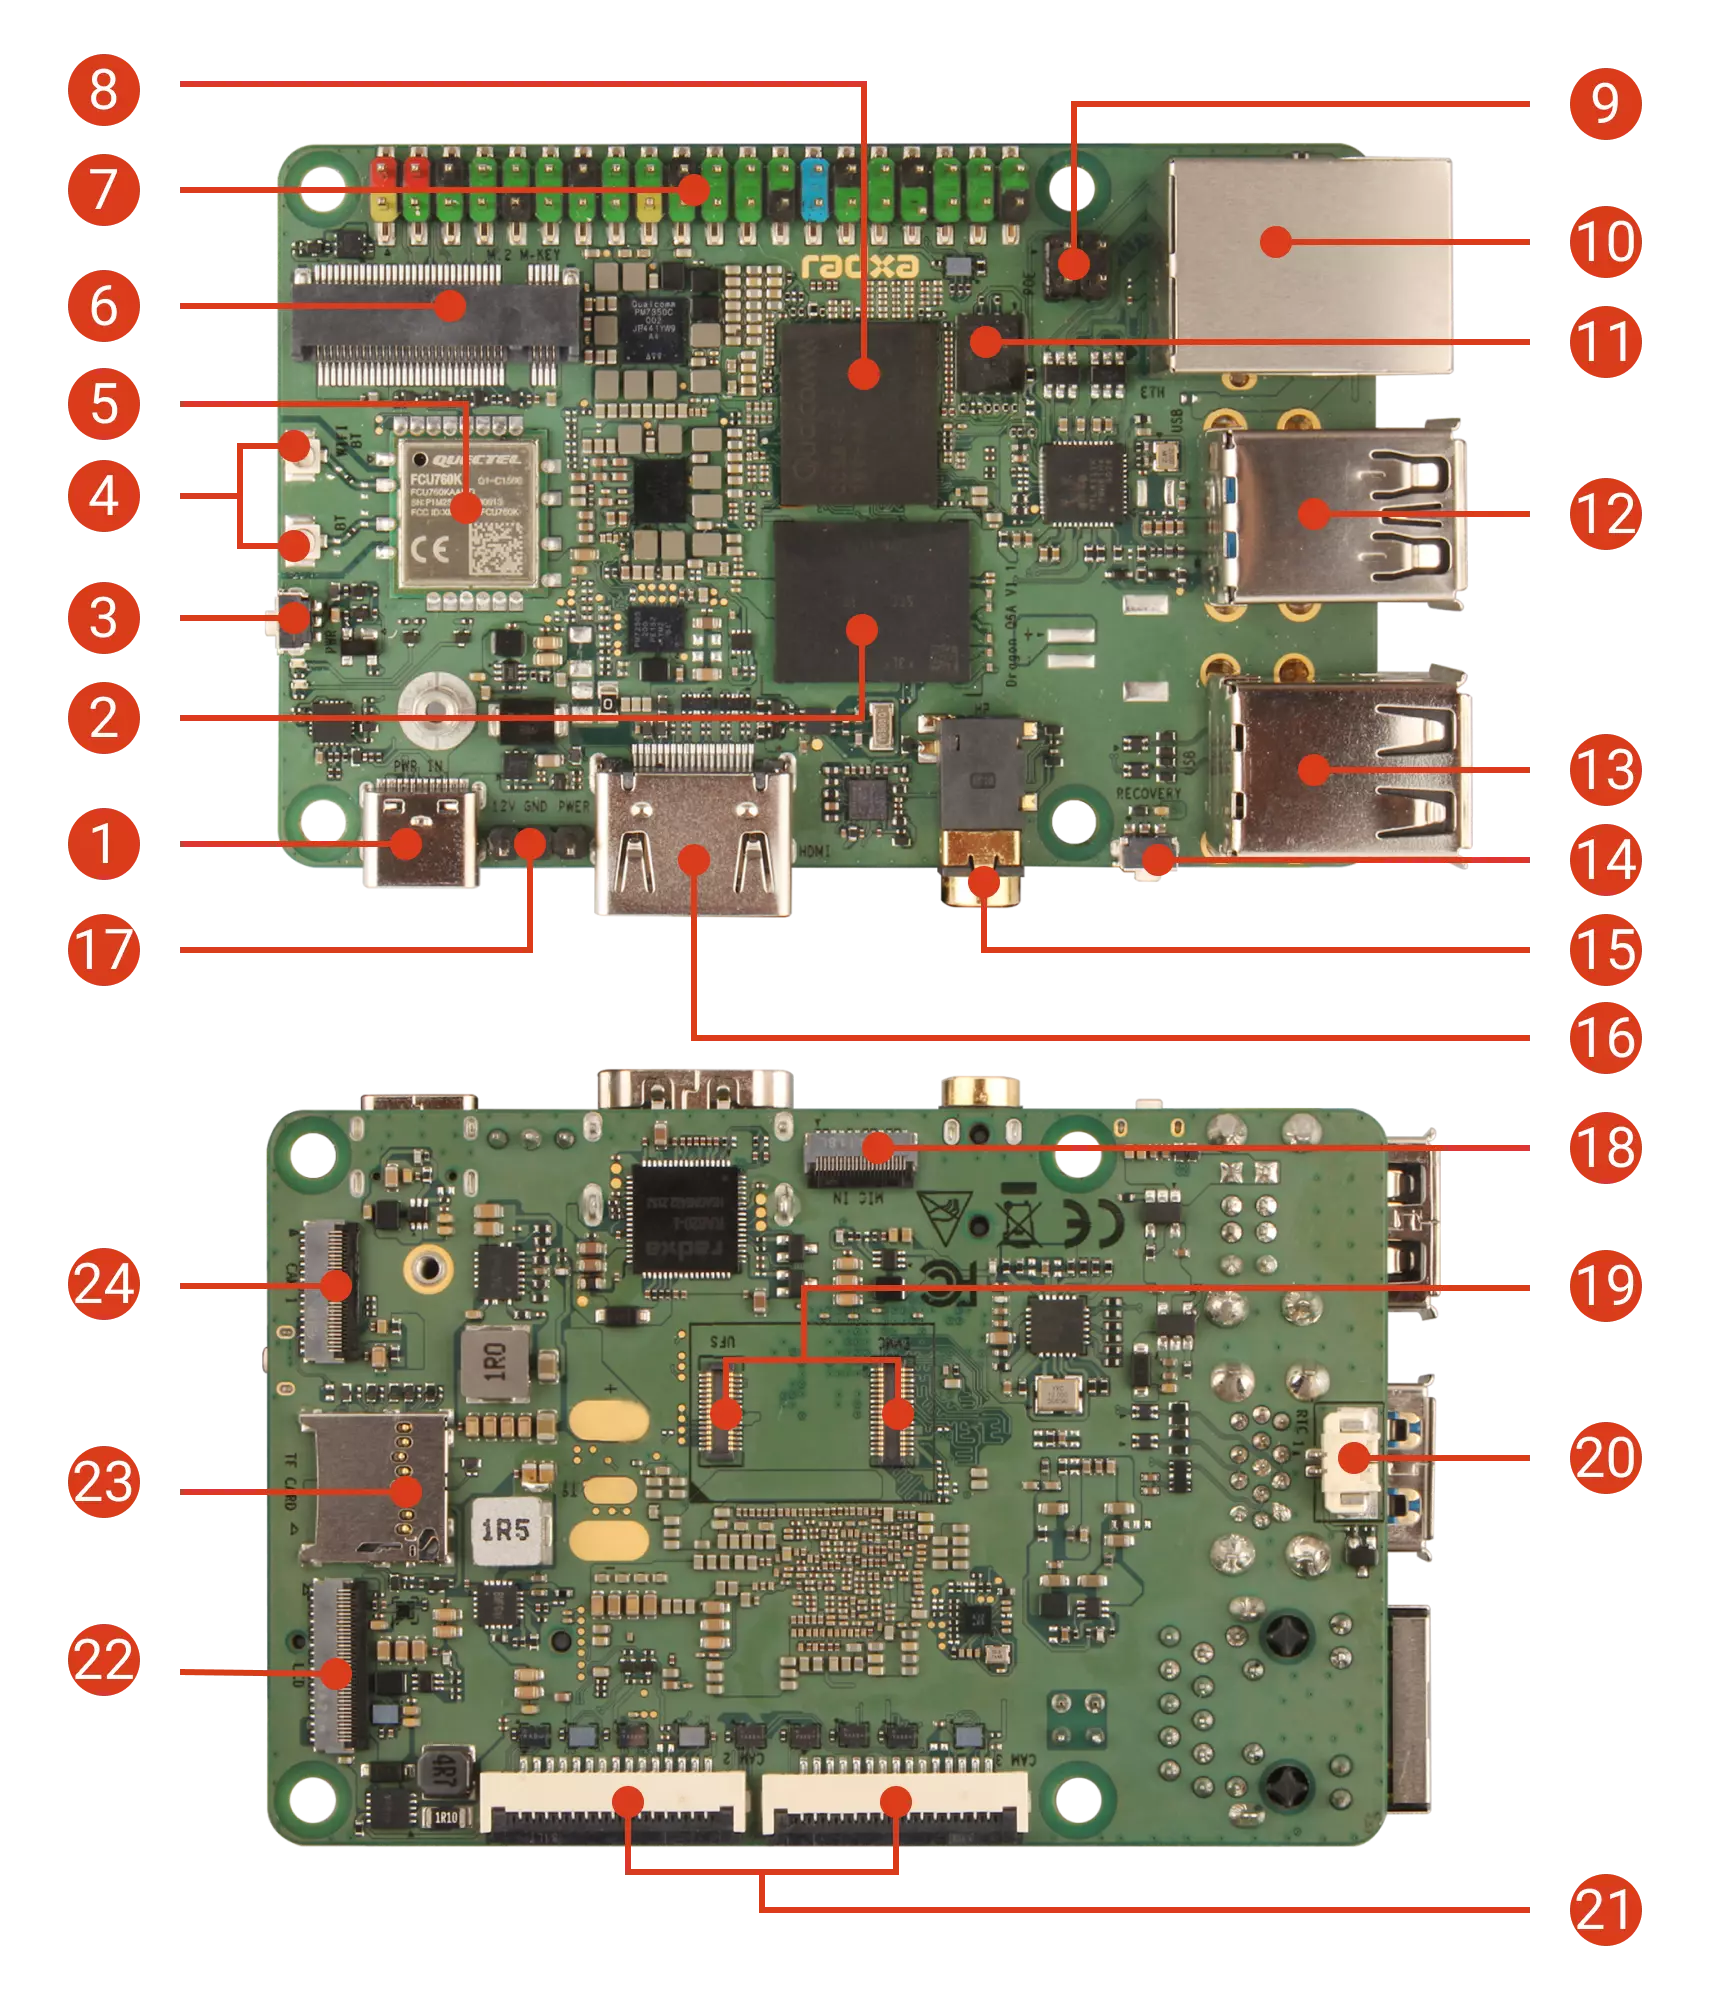
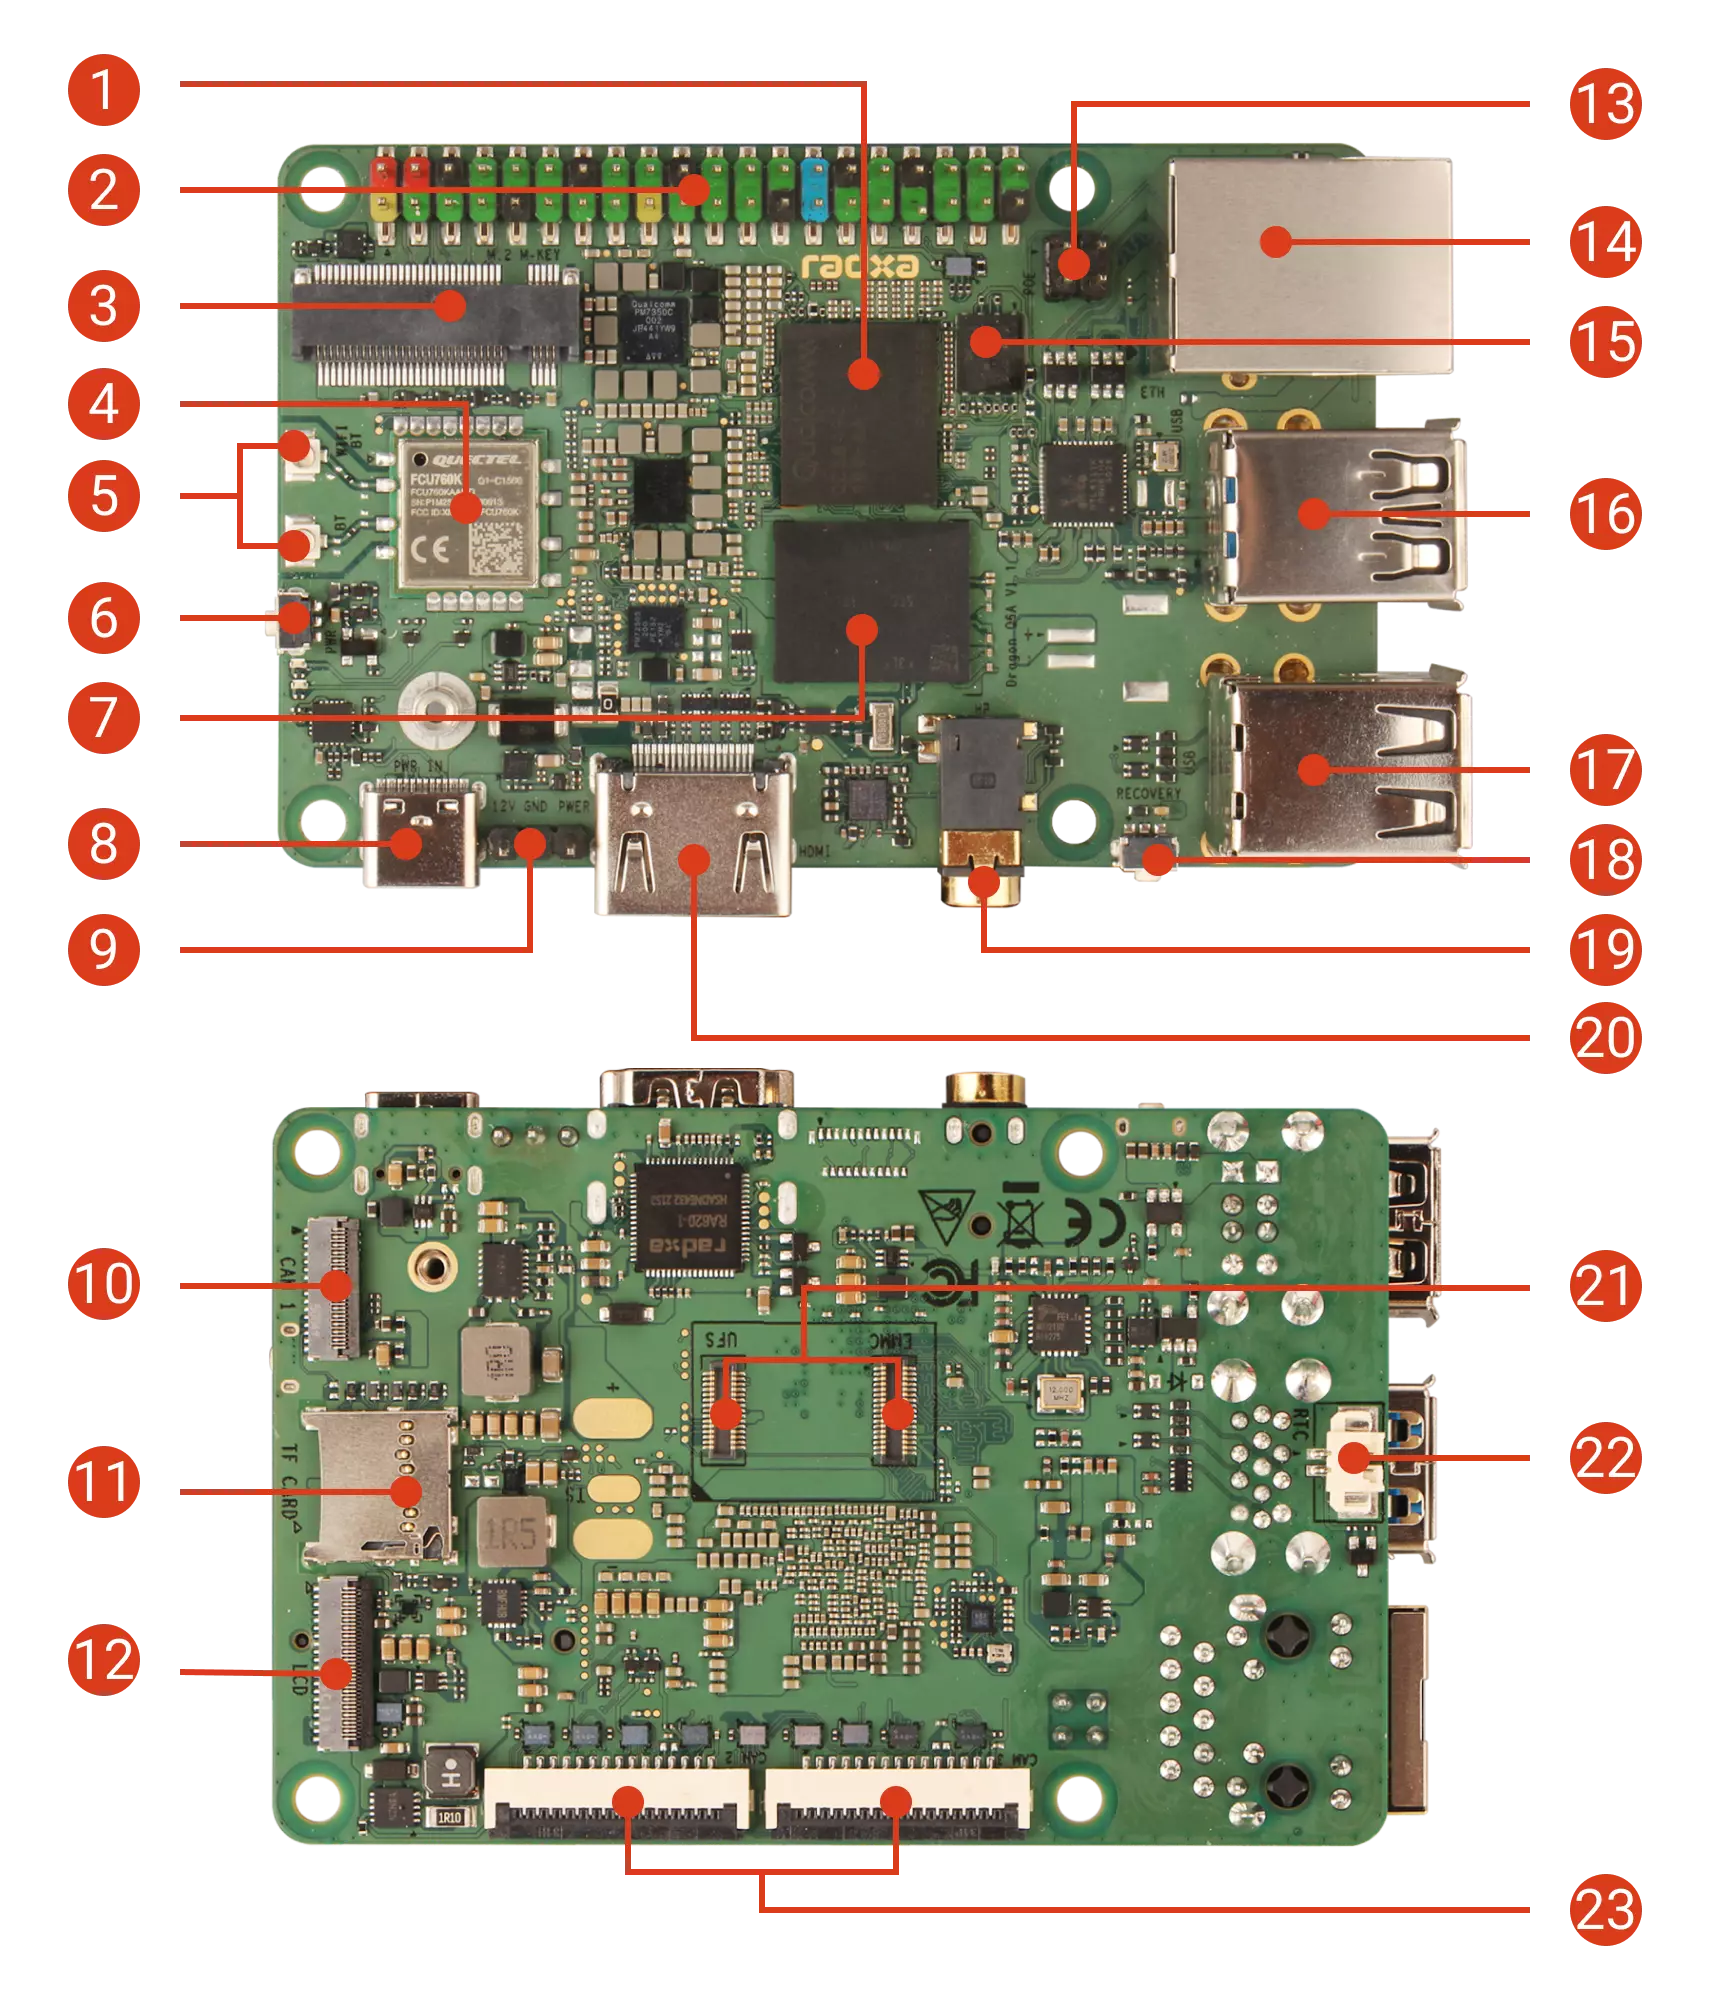
fix: dragon q6a interface description

diff --git a/docs/dragon/q6a/README.md b/docs/dragon/q6a/README.md
@@ -42,27 +42,16 @@ Dragon Q6A 搭载高通 QCS6490 SoC，采用 “1+3+4” 三丛集设计（1× K
    <img src="/img/dragon/q6a/q6a_interface.webp" style={{width: '100%', maxWidth: '1200px'}} />
 </div>
 
-| 序号 | 说明             | 序号 | 说明                                                         | 序号 | 说明                      |
-| :--: | :--------------- | :--: | :----------------------------------------------------------- | :--: | :------------------------ |
-|  ①   | USB Type-C 接口  |  ⑨   | PoE 接口                                                     |  ⑰   | 12 V 电源输入接口         |
-|  ②   | LPDDR5 内存      |  ⑩   | 千兆以太网接口（支持 PoE）                                   |  ⑱   | 麦克风输入接口            |
-|  ③   | Power 按键       |  ⑪   | QSPI Nor Flash                                               |  ⑲   | eMMC / UFS 模块二合一接口 |
-|  ④   | 天线接口         |  ⑫   | 2x USB 2.0 Type-A 接口                                       |  ⑳   | RTC 接口                  |
-|  ⑤   | WiFi 6 / BT 5.4  |  ⑬   | USB 2.0 Type-A 接口（上层）<br/> USB 3.1 Type-A 接口（下层） |  ㉑  | 2x MIPI CSI 2-Lane 接口   |
-|  ⑥   | M.2 M Key 接口   |  ⑭   | EDL 按键                                                     |  ㉒  | MIPI DSI 4-Lane 接口      |
-|  ⑦   | 40 Pin GPIO 排针 |  ⑮   | 耳机插孔                                                     |  ㉓  | MicroSD 卡槽              |
-|  ⑧   | Qualcomm QCS6490 |  ⑯   | HDMI 接口                                                    |  ㉔  | MIPI CSI 4-Lane 接口      |
-
-| 序号 | 说明             | 序号 | 说明                                                         | 序号 | 说明                      |
-| :--: | :--------------- | :--: | :----------------------------------------------------------- | :--: | :------------------------ |
-|  ①   | USB Type-C 接口  |  ⑨   | PoE 接口                                                     |  ⑰   | 12 V 电源输入接口         |
-|  ②   | LPDDR5 内存      |  ⑩   | 千兆以太网接口（支持 PoE）                                   |  ⑱   | 麦克风输入接口            |
-|  ③   | Power 按键       |  ⑪   | QSPI Nor Flash                                               |  ⑲   | eMMC / UFS 模块二合一接口 |
-|  ④   | 天线接口         |  ⑫   | 2x USB 2.0 Type-A 接口                                       |  ⑳   | RTC 接口                  |
-|  ⑤   | WiFi 6 / BT 5.4  |  ⑬   | USB 2.0 Type-A 接口（上层）<br/> USB 3.1 Type-A 接口（下层） |  ㉑  | 2x MIPI CSI 2-Lane 接口   |
-|  ⑥   | M.2 M Key 接口   |  ⑭   | EDL 按键                                                     |  ㉒  | MIPI DSI 4-Lane 接口      |
-|  ⑦   | 40 Pin GPIO 排针 |  ⑮   | 耳机插孔                                                     |  ㉓  | MicroSD 卡槽              |
-|  ⑧   | Qualcomm QCS6490 |  ⑯   | HDMI 接口                                                    |  ㉔  | MIPI CSI 4-Lane 接口      |
+| 序号 | 说明             | 序号 | 说明                                                             | 序号 | 说明                   |
+| :--: | :--------------- | :--: | :--------------------------------------------------------------- | :--: | :--------------------- |
+|  1   | 高通 QCS6490     |  9   | 电源输入接口                                                     |  17  | 2x USB 2.0 Type-A 接口 |
+|  2   | 40 Pin GPIO 接口 |  10  | MIPI CSI（4 Lane）                                               |  18  | EDL 按键               |
+|  3   | M.2 M Key 插槽   |  11  | MicroSD 卡槽                                                     |  19  | 耳机插孔               |
+|  4   | WiFi 6 / BT 5.4  |  12  | MIPI DSI（4 Lane）                                               |  20  | 标准 HDMI              |
+|  5   | 天线接口         |  13  | PoE 接口                                                         |  21  | eMMC & UFS 模块二合一  |
+|  6   | 电源按键         |  14  | 千兆以太网                                                       |  22  | RTC 电池接口           |
+|  7   | LPDDR5 内存      |  15  | QSPI Nor Flash                                                   |  23  | 2x MIPI CSI（2 Lane）  |
+|  8   | USB 2.0 Type-C   |  16  | USB 2.0 Type-A 接口（上层）<br/> USB 3.1 OTG Type-A 接口（下层） |      |                        |
 
 ## 应用场景
 

diff --git a/docs/dragon/q6a/hardware-use/hardware_info.md b/docs/dragon/q6a/hardware-use/hardware_info.md
@@ -13,16 +13,16 @@ sidebar_position: 1
 ## 接口说明
 
 <div style={{textAlign: 'center'}}>
-   <img src="/img/dragon/q6a/q6a_interface.webp" style={{width: '80%', maxWidth: '1200px'}} />
+   <img src="/img/dragon/q6a/q6a_interface.webp" style={{width: '100%', maxWidth: '1200px'}} />
 </div>
 
-| 序号 | 说明             | 序号 | 说明                                                         | 序号 | 说明                      |
-| :--: | :--------------- | :--: | :----------------------------------------------------------- | :--: | :------------------------ |
-|  1   | USB Type-C 接口  |  9   | PoE 接口                                                     |  17  | 12 V 电源输入接口         |
-|  2   | LPDDR5 内存      |  10  | 千兆以太网接口（支持 PoE）                                   |  18  | 麦克风输入接口            |
-|  3   | Power 按键       |  11  | SPI Flash                                                    |  19  | eMMC / UFS 模块二合一接口 |
-|  4   | 天线接口         |  12  | 2x USB 2.0 Type-A 接口                                       |  20  | RTC 接口                  |
-|  4   | WiFi 6 / BT 5.4  |  13  | USB 2.0 Type-A 接口（上层）<br/> USB 3.1 Type-A 接口（下层） |  21  | 2x MIPI CSI 2-Lane 接口   |
-|  6   | M.2 M Key 接口   |  14  | EDL 按键                                                     |  22  | MIPI DSI 4-Lane 接口      |
-|  7   | 40 Pin GPIO 排针 |  15  | 耳机插孔                                                     |  23  | MicroSD 卡槽              |
-|  8   | Qualcomm QCS6490 |  16  | HDMI 接口                                                    |  24  | MIPI CSI 4-Lane 接口      |
+| 序号 | 说明             | 序号 | 说明                                                             | 序号 | 说明                   |
+| :--: | :--------------- | :--: | :--------------------------------------------------------------- | :--: | :--------------------- |
+|  1   | 高通 QCS6490     |  9   | 电源输入接口                                                     |  17  | 2x USB 2.0 Type-A 接口 |
+|  2   | 40 Pin GPIO 接口 |  10  | MIPI CSI（4 Lane）                                               |  18  | EDL 按键               |
+|  3   | M.2 M Key 插槽   |  11  | MicroSD 卡槽                                                     |  19  | 耳机插孔               |
+|  4   | WiFi 6 / BT 5.4  |  12  | MIPI DSI（4 Lane）                                               |  20  | 标准 HDMI              |
+|  5   | 天线接口         |  13  | PoE 接口                                                         |  21  | eMMC & UFS 模块二合一  |
+|  6   | 电源按键         |  14  | 千兆以太网                                                       |  22  | RTC 电池接口           |
+|  7   | LPDDR5 内存      |  15  | QSPI Nor Flash                                                   |  23  | 2x MIPI CSI（2 Lane）  |
+|  8   | USB 2.0 Type-C   |  16  | USB 2.0 Type-A 接口（上层）<br/> USB 3.1 OTG Type-A 接口（下层） |      |                        |
